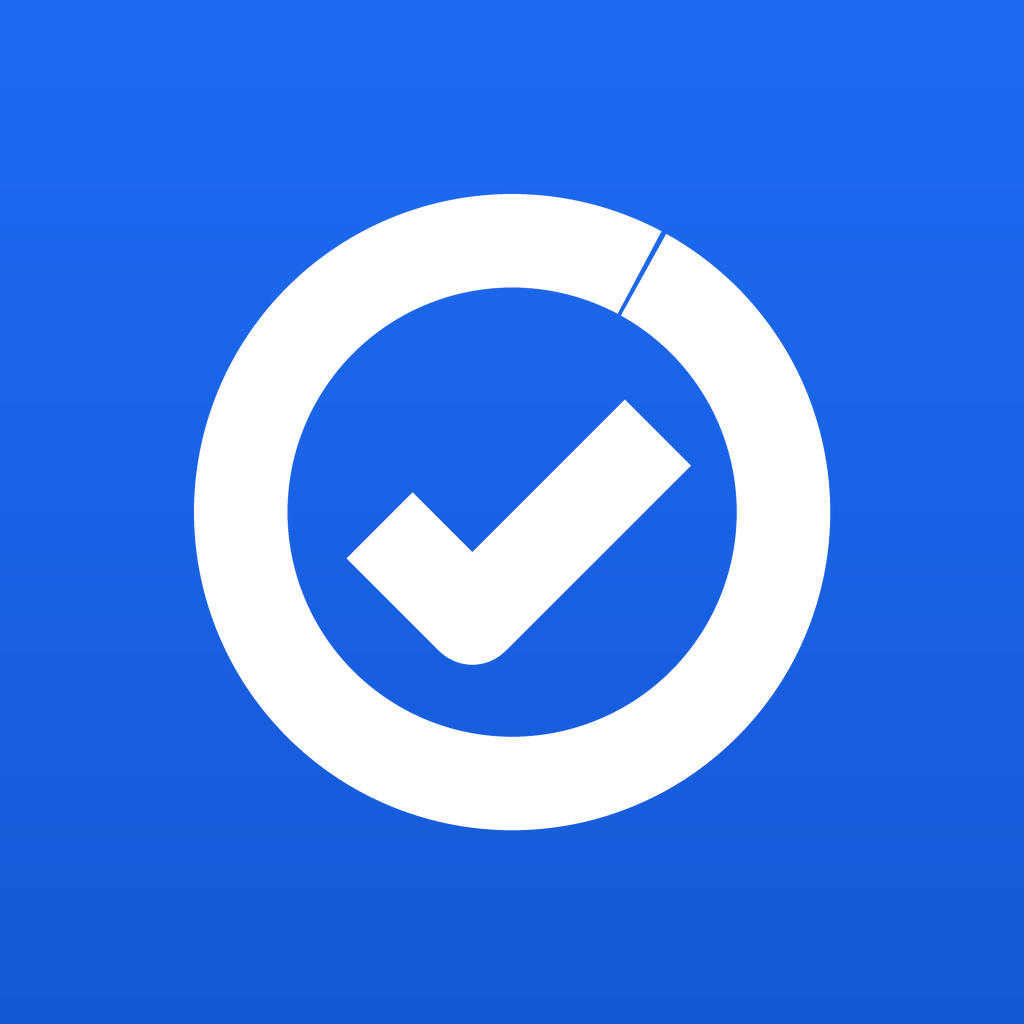
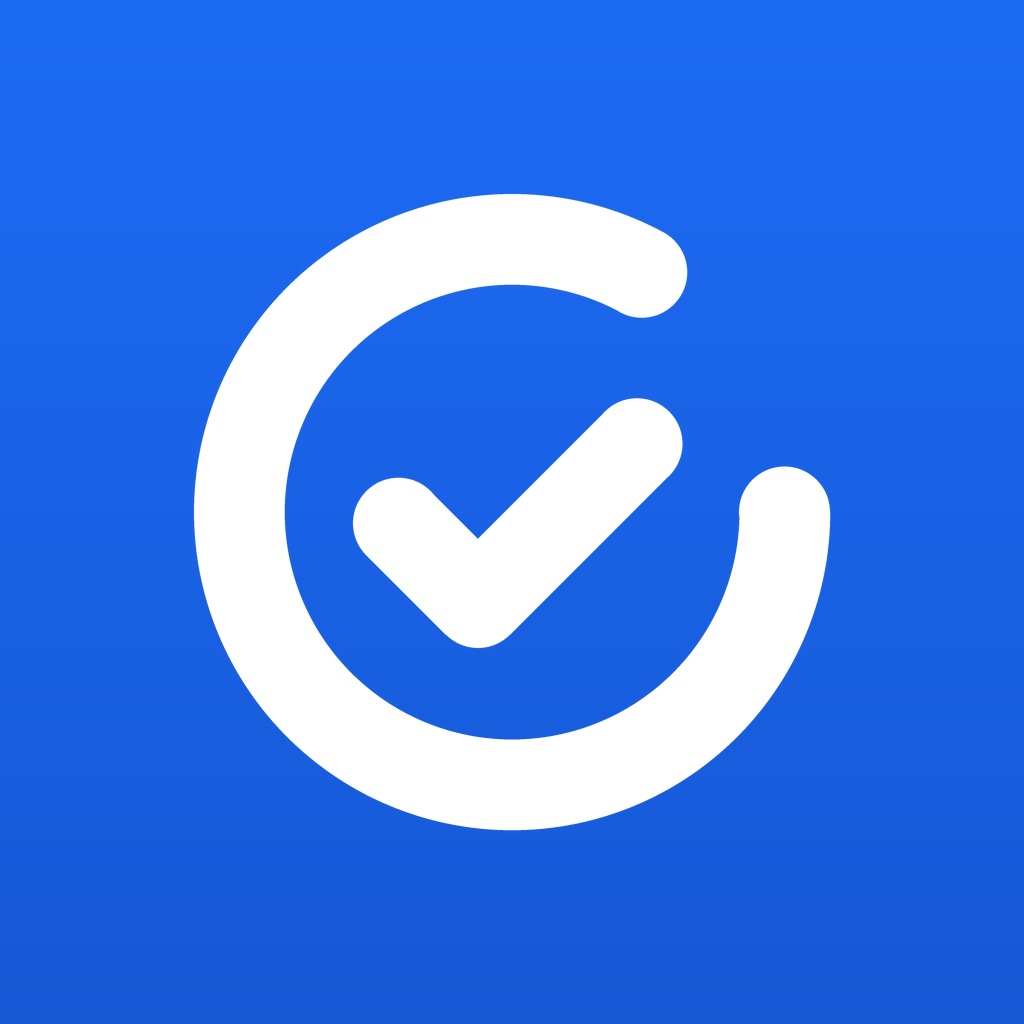
fix(brand): restore the mark's 61.6-degree opening in raster assets
Same arc defect as the site precedent: a 359-degree sweep collapsed the
signature north-east opening to a hairline, and PIL's inward stroke sat
on the wrong radii. brand() now draws the favicon's exact stroke-centered
geometry with round caps; all nine assets regenerated, --check green.

diff --git a/apps/mobile/tools/make-icons.py b/apps/mobile/tools/make-icons.py
@@ -7,11 +7,17 @@
 Run from the repo root. Fonts default to apps/mobile/assets/fonts/ and can be
 overridden with --fonts-dir (needs Geist-SemiBold.ttf and Geist-Regular.ttf).
 
-The mark is lifted verbatim from site/tools/make-og.py brand(): a ring drawn as
-an arc from -61 to 298 degrees plus a check polyline through (22,33), (29,40),
-(43,26) on the 48-unit grid (u = 2r / 48), stroke width 5 at r=17 scaled
-linearly (width = 5r/17, i.e. 5/34 of the ring diameter). Keeping every asset
-on this one function is the point: the mark cannot drift between files.
+The mark follows the authoritative SVG reference, apps/web/public/favicon.svg
+(64-unit viewBox, center (32,32)): a ring at stroke-center radius 24 with
+stroke width 8 (annulus 20..28, OUTER diameter 56 units), round caps, whose
+dash covers 298.4 degrees clockwise from 3 o'clock leaving the ~61.6-degree
+signature opening across the north-east; plus a check polyline through
+(22,33) -> (29,40) -> (43,26) at the same stroke with round caps and joins.
+brand() parameterizes on D = the ring's OUTER diameter (u = D/56, w = 8u).
+PIL arc widths grow INWARD from the bbox ellipse, so the arc bbox sits at
+outer radius 28u and the annulus lands on 20u..28u exactly like the SVG's
+stroke-centered circle. Keeping every asset on this one function is the
+point: the mark cannot drift between files.
 
 Glyph scales (ring outer diameter, measured off the previous committed assets
 so nothing moves visually):
@@ -33,6 +39,7 @@ Output is deterministic: Pillow's default PNG encoder embeds no timestamps and
 every draw is pure math over these constants.
 """
 import argparse
+import math
 import os
 import sys
 
@@ -56,14 +63,28 @@ SS = 4  # supersampling factor for the anti-aliased glyph masks
 TAGLINE = "Habits, routines and goals with progress you feel"
 
 
-def brand(d, x, y, r, fill):
-    """Verbatim geometry from site/tools/make-og.py: the ring with its opening
-    to the north-east, and the check inside it. Stroke = 5 at r=17, scaled."""
-    width = max(1, round(r * 5 / 17))
-    d.arc([x, y, x + r * 2, y + r * 2], start=-61, end=298, fill=fill, width=width)
-    u = r * 2 / 48.0
-    p = lambda a, b: (x + (a - 8) * u, y + (b - 8) * u)
-    d.line([p(22, 33), p(29, 40), p(43, 26)], fill=fill, width=width, joint="curve")
+def brand(d, cx, cy, D, fill):
+    """The mark per apps/web/public/favicon.svg, scaled so the ring's OUTER
+    diameter is D (unit u = D/56). Ring: stroke-center radius 24u, stroke 8u,
+    dash 0..298.4 degrees (clockwise from 3 o'clock, y-down) with round caps,
+    leaving the ~61.6-degree opening across the north-east. Check: polyline
+    (22,33) -> (29,40) -> (43,26) in 64-space, stroke 8u, round caps/joins.
+    PIL's arc width grows inward, so the bbox sits at outer radius 28u and
+    the annulus lands on 20u..28u, matching the SVG's stroke-centered r=24."""
+    u = D / 56.0
+    w = max(1, round(8 * u))
+    R = 28 * u  # outer radius; PIL grows the stroke inward from here
+    d.arc([cx - R, cy - R, cx + R, cy + R], start=0, end=298.4, fill=fill, width=w)
+    # round caps: circles of diameter w at the dash endpoints (radius 24u)
+    for ang in (0.0, 298.4):
+        ex = cx + 24 * u * math.cos(math.radians(ang))
+        ey = cy + 24 * u * math.sin(math.radians(ang))
+        d.ellipse([ex - w / 2, ey - w / 2, ex + w / 2, ey + w / 2], fill=fill)
+    p = lambda a, b: (cx + (a - 32) * u, cy + (b - 32) * u)
+    pts = [p(22, 33), p(29, 40), p(43, 26)]
+    d.line(pts, fill=fill, width=w, joint="curve")
+    for ex, ey in (pts[0], pts[-1]):  # round caps on the check's open ends
+        d.ellipse([ex - w / 2, ey - w / 2, ex + w / 2, ey + w / 2], fill=fill)
 
 
 def glyph_mask(size, diameter, center=None):
@@ -73,8 +94,7 @@ def glyph_mask(size, diameter, center=None):
         center = (w / 2, h / 2)
     big = Image.new("L", (w * SS, h * SS), 0)
     d = ImageDraw.Draw(big)
-    r = diameter * SS / 2
-    brand(d, center[0] * SS - r, center[1] * SS - r, r, fill=255)
+    brand(d, center[0] * SS, center[1] * SS, diameter * SS, fill=255)
     return big.resize(size, Image.LANCZOS)
 
 
